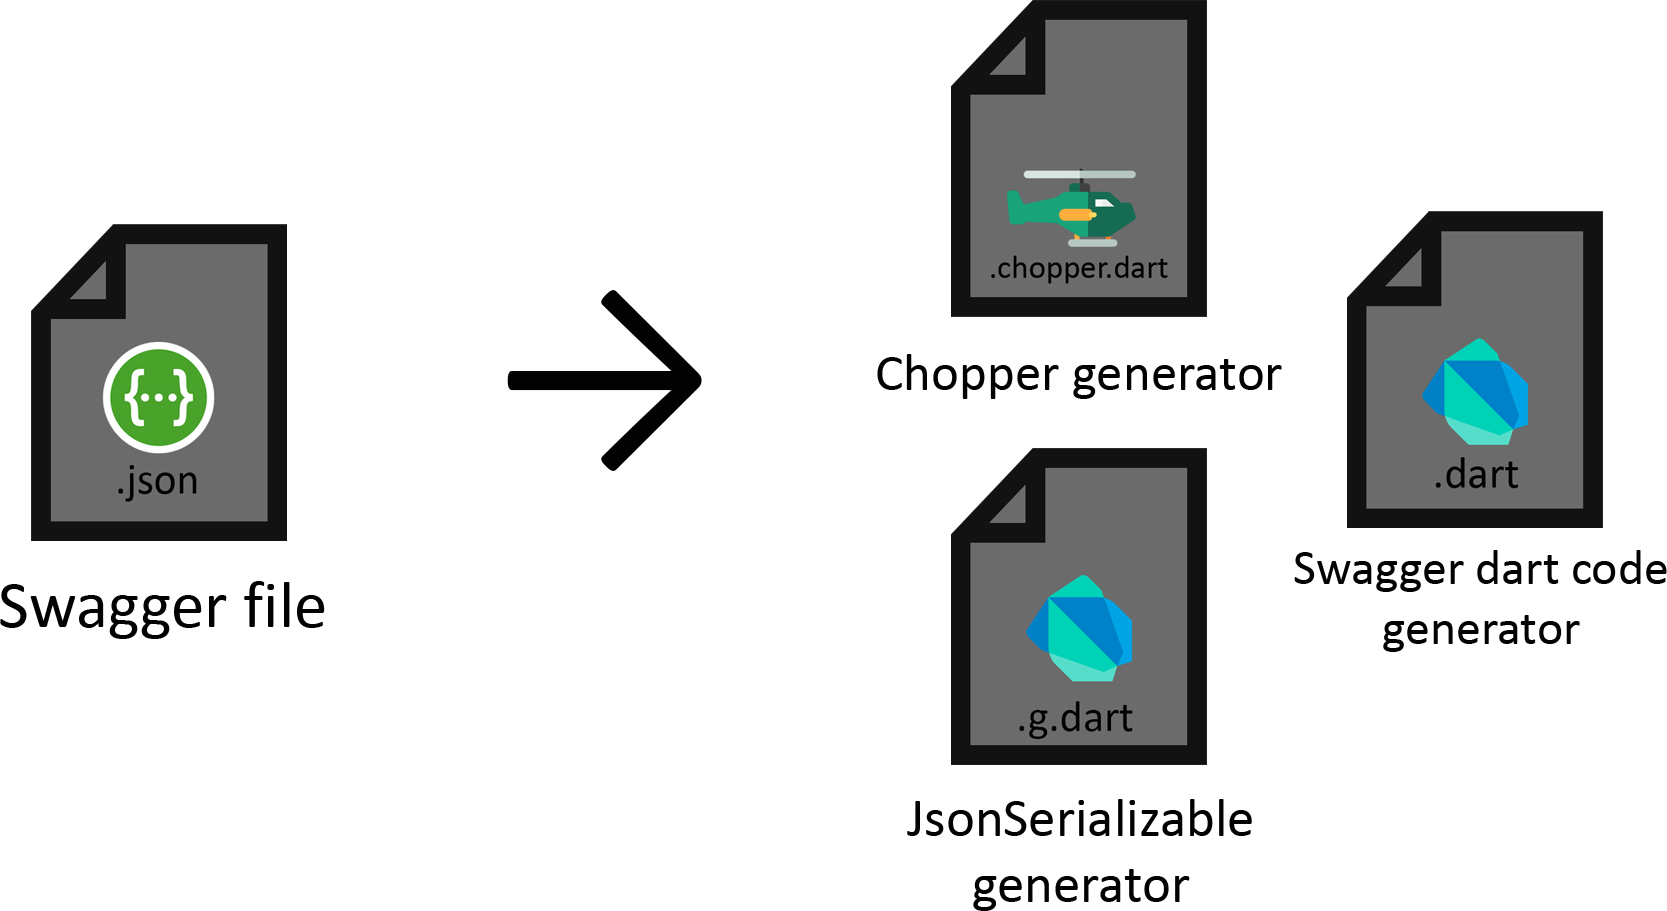
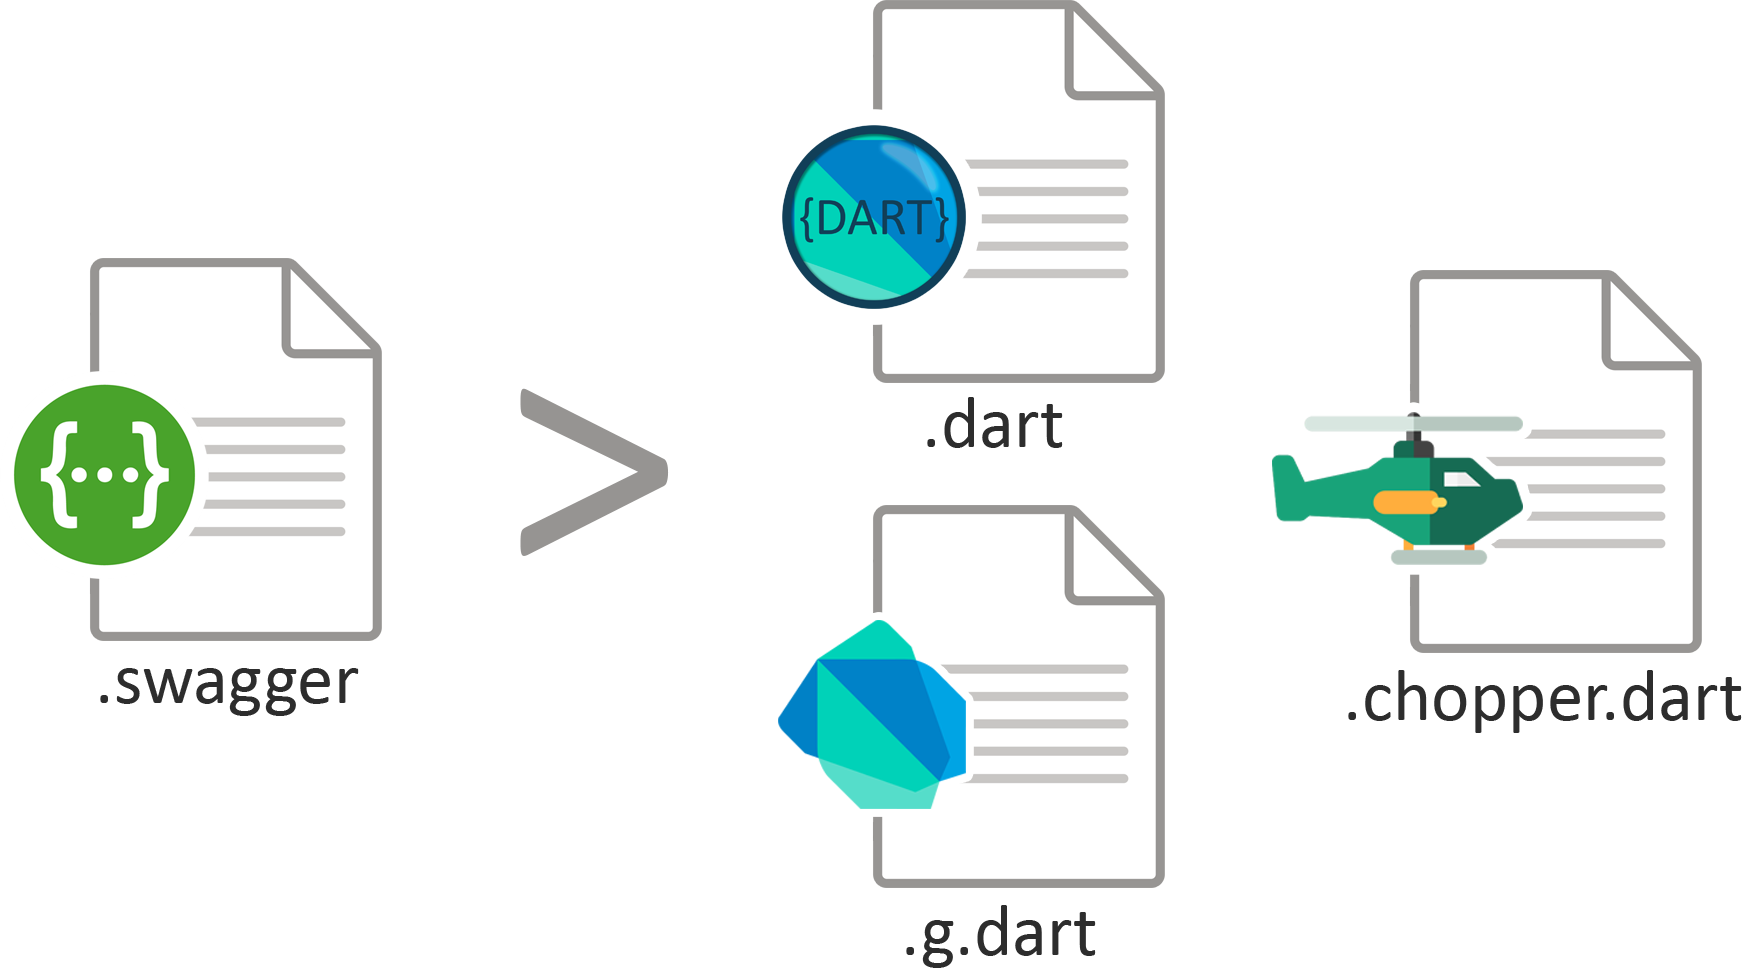
To fix names with symbols in request parameter type names (#61)
* Fixed type names with "-" in request parameters

* Updated overview_image

Changed region(s): [[0.4367, 0.0, 1.0, 1.0], [0.0, 0.2459, 0.2184, 0.7377], [0.2807, 0.3074, 0.4367, 0.584]]

diff --git a/lib/src/code_generators/v2/swagger_requests_generator_v2.dart b/lib/src/code_generators/v2/swagger_requests_generator_v2.dart
@@ -239,6 +239,19 @@ $allMethodsContent
   }
 
   @visibleForTesting
+  String validateParameterType(String parameterName) {
+    if (parameterName == null) {
+      return parameterName;
+    }
+
+    return parameterName
+        .split('-')
+        .map((String str) => str.capitalize)
+        .toList()
+        .join();
+  }
+
+  @visibleForTesting
   String getRequestClassContent(String host, String className, String fileName,
       GeneratorOptions options) {
     final classWithoutChopper = '''
@@ -283,13 +296,14 @@ abstract class $className extends ChopperService''';
       bool ignoreHeaders,
       String requestType,
       String path}) {
+    final parameterType = validateParameterType(parameter.name);
     switch (parameter.inParameter) {
       case 'body':
         return getBodyParameter(parameter, path, requestType);
       case 'formData':
         final isEnum = parameter.schema?.enumValues != null;
 
-        return "@Field('${parameter.name}') ${parameter.isRequired ? "@required" : ""} ${isEnum ? parameter.name.capitalize : getParameterTypeName(parameter.type)} ${validateParameterName(parameter.name)}";
+        return "@Field('${parameter.name}') ${parameter.isRequired ? "@required" : ""} ${isEnum ? parameterType : getParameterTypeName(parameter.type)} ${validateParameterName(parameter.name)}";
       case 'header':
         return ignoreHeaders
             ? ''
@@ -338,6 +352,8 @@ abstract class $className extends ChopperService''';
       parameterType = defaultBodyParameter;
     }
 
+    parameterType = validateParameterType(parameterType);
+
     return "@${parameter.inParameter.capitalize}() ${parameter.isRequired ? "@required" : ""} $parameterType ${validateParameterName(parameter.name)}";
   }
 
@@ -359,7 +375,7 @@ abstract class $className extends ChopperService''';
       case 'object':
         return 'Object';
       default:
-        return parameter ?? 'dynamic';
+        return validateParameterType(parameter) ?? 'dynamic';
     }
   }
 

diff --git a/lib/src/code_generators/v3/swagger_requests_generator_v3.dart b/lib/src/code_generators/v3/swagger_requests_generator_v3.dart
@@ -307,13 +307,14 @@ abstract class $className extends ChopperService''';
       bool ignoreHeaders,
       String requestType,
       String path}) {
+    final parameterType = validateParameterType(parameter.name);
     switch (parameter.inParameter) {
       case 'body':
         return getBodyParameter(parameter, path, requestType);
       case 'formData':
         final isEnum = parameter.schema?.enumValues != null;
 
-        return "@Field('${parameter.name}') ${parameter.isRequired ? "@required" : ""} ${isEnum ? parameter.name.capitalize : getParameterTypeName(parameter.type)} ${validateParameterName(parameter.name)}";
+        return "@Field('${parameter.name}') ${parameter.isRequired ? "@required" : ""} ${isEnum ? parameterType : getParameterTypeName(parameter.type)} ${validateParameterName(parameter.name)}";
       case 'header':
         return ignoreHeaders
             ? ''
@@ -323,6 +324,19 @@ abstract class $className extends ChopperService''';
       default:
         return getDefaultParameter(parameter, path, requestType);
     }
+  }
+
+  @visibleForTesting
+  String validateParameterType(String parameterName) {
+    if (parameterName == null) {
+      return null;
+    }
+
+    return parameterName
+        .split('-')
+        .map((String str) => str.capitalize)
+        .toList()
+        .join();
   }
 
   @visibleForTesting
@@ -359,6 +373,8 @@ abstract class $className extends ChopperService''';
       parameterType = defaultBodyParameter;
     }
 
+    parameterType = validateParameterType(parameterType);
+
     return "@${parameter.inParameter.capitalize}() ${parameter.isRequired ? "@required" : ""} $parameterType ${validateParameterName(parameter.name)}";
   }
 
@@ -380,7 +396,7 @@ abstract class $className extends ChopperService''';
       case 'object':
         return 'Object';
       default:
-        return parameter ?? 'dynamic';
+        return validateParameterType(parameter) ?? 'dynamic';
     }
   }
 

diff --git a/test/v2/requests_generator_v2_test.dart b/test/v2/requests_generator_v2_test.dart
@@ -386,7 +386,7 @@ void main() {
     });
 
     test('Should convert array of int to List<int>', () {
-      final result = generator.getParameterTypeName('array', 'int');
+      final result = generator.getParameterTypeName('array', 'integer');
 
       expect(result, 'List<int>');
     });
@@ -398,9 +398,9 @@ void main() {
     });
 
     test('Should convert unknown type to unknown type', () {
-      final result = generator.getParameterTypeName('super_cool_type');
+      final result = generator.getParameterTypeName('Super_cool_type');
 
-      expect(result, 'super_cool_type');
+      expect(result, 'Super_cool_type');
     });
 
     test('Should convert null to dynamic', () {

diff --git a/test/v3/requests_generator_v3_test.dart b/test/v3/requests_generator_v3_test.dart
@@ -407,7 +407,7 @@ void main() {
     });
 
     test('Should convert array of int to List<int>', () {
-      final result = generator.getParameterTypeName('array', 'int');
+      final result = generator.getParameterTypeName('array', 'integer');
 
       expect(result, 'List<int>');
     });
@@ -419,9 +419,9 @@ void main() {
     });
 
     test('Should convert unknown type to unknown type', () {
-      final result = generator.getParameterTypeName('super_cool_type');
+      final result = generator.getParameterTypeName('Super_cool_type');
 
-      expect(result, 'super_cool_type');
+      expect(result, 'Super_cool_type');
     });
 
     test('Should convert null to dynamic', () {
